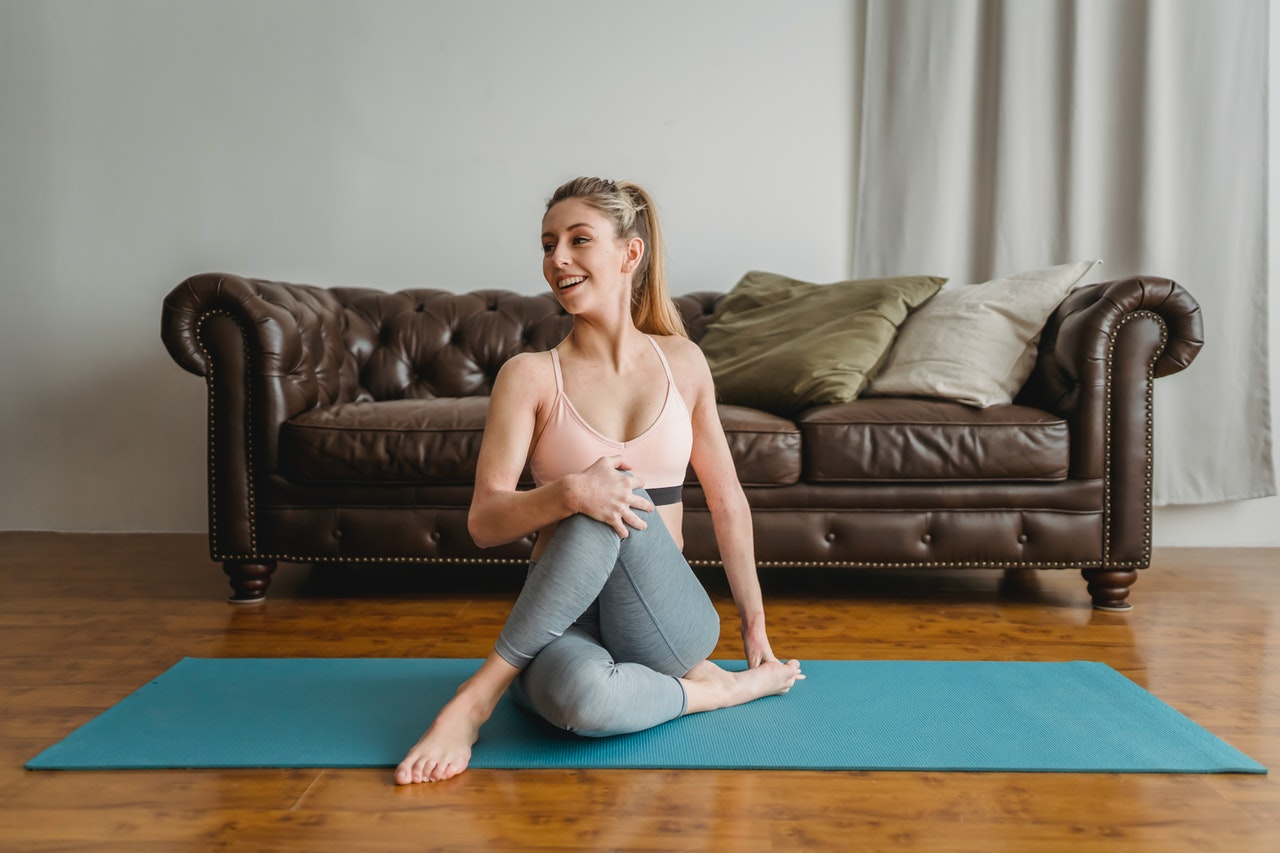
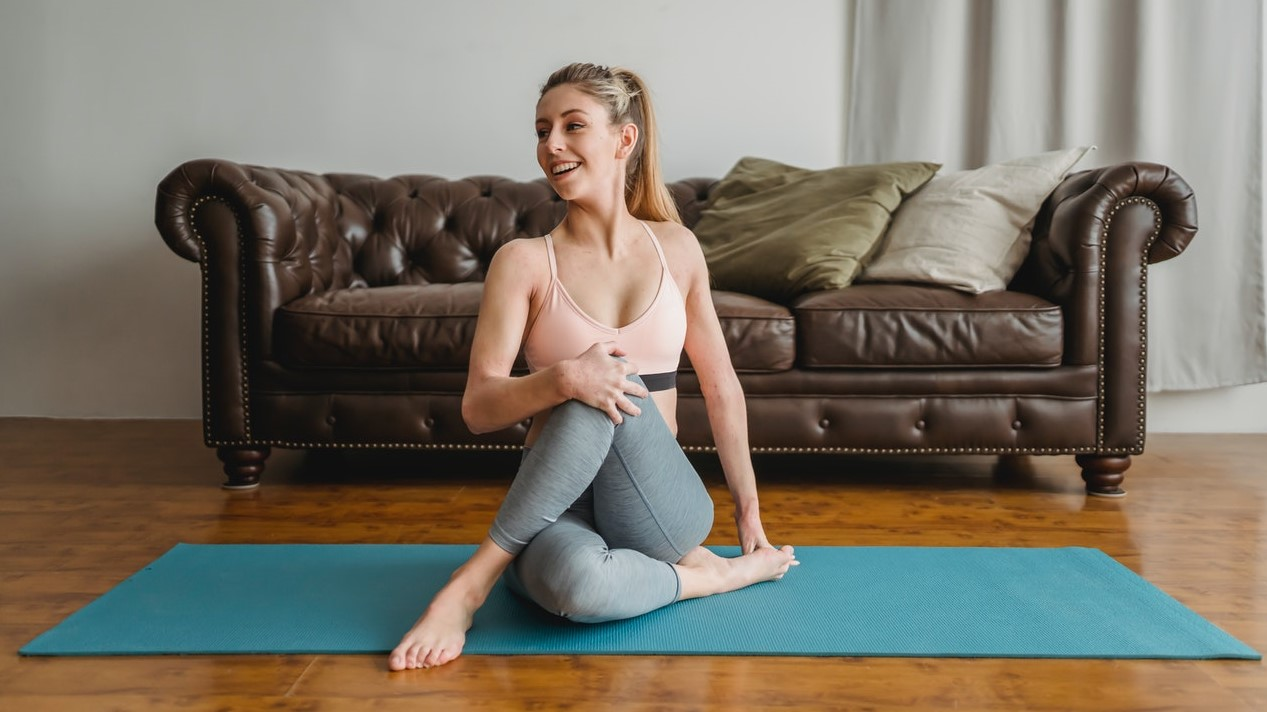
add hero image annimation

diff --git a/assets/css/style.css b/assets/css/style.css
@@ -8,6 +8,7 @@ body{
     font-family: roboto,sans-serif;
     font-weight: 500;
     color: #3a3a3a;
+    background-color:  rgba(214, 220, 207, 0.7);
 }
 /* headings and logo */
 
@@ -18,17 +19,18 @@ h1, h2{
     letter-spacing: 1px;
     color: #252525;
 }
+
 #logo{
     float: left;
     font-size: 250%;
     margin-left: 25px;
+
 }
 /* nav links */
 #menu{
     font-size: 140%;
     letter-spacing: 2px;
     float: right;
-    background-color:  rgba(214, 220, 207, 0.5);
     border-radius: 5px;
     padding-left: 30px;
     
@@ -51,8 +53,8 @@ h1, h2{
 }
 #menu a:hover{
     border-bottom: 1.5px solid #3a3a3a;
-    font-size: 110%;
-     transition: 0.5s;
+    font-weight: 800;
+     transition: 0.2s;
      
 }
 .active{
@@ -61,8 +63,28 @@ h1, h2{
 }
 
 /* hero image */
+#hero-outer{
+     height: 800px;
+    width: 100%;
+    overflow: hidden;
+    
+}
+
 #hero-img{
-    height: 800px;
+    height: 650px;
     width: 100%;
     background: url(../images/hero-img.jpg) no-repeat center center;
+    /* hero zoom animation */
+    animation-name: hero-zoom;
+    animation-duration: 5s;
+    animation-fill-mode: forwards;
+}
+/* hero img zoom */
+@keyframes hero-zoom{
+    from{
+        transform: scale(1);
+    }
+    to{
+        transform: scale(1.05);
+    }
 }

diff --git a/home.html b/home.html
@@ -12,6 +12,7 @@
 
 <body>
     <header>
+       
         <a href="home.html">
             <h1 id="logo">
                 Mind, Body & Soul
@@ -35,8 +36,9 @@
                 
             </ul>
         </nav>
+        
     </header>
-    <section>
+    <section id="hero-outer">
         <div id="hero-img">
 
         </div>
